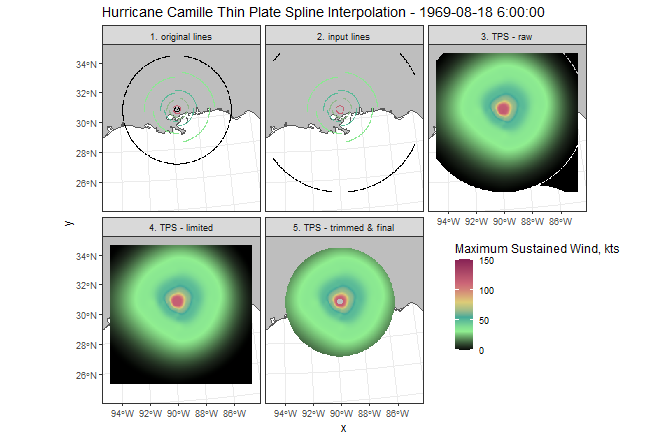
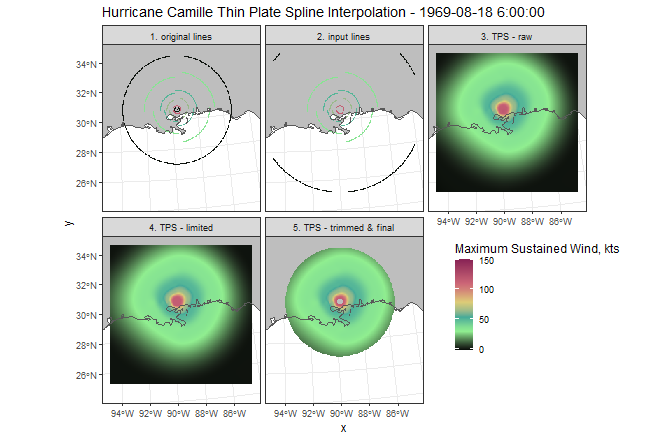
progress

diff --git a/README.md b/README.md
@@ -614,8 +614,8 @@ r = rast(ext=ex, resolution=5000,
 ###   Using the original ROCI and eye wall can create extreme and unnatural shifts in wind Velocity with the thin spline method
 ###   to avoid this, bump the 0 velocity line of the ROCI out a bit further
 ###   we will still zero out the original ROCI later, this is only for the thine spline interpolation
-line <- bind_rows(line1,
-                  line1%>%filter(quad=="ROCI")%>%st_cast("POLYGON")%>%st_buffer(.$dist_m_mean*.5) %>%
+line <- bind_rows(line2.2,
+                  line2.2%>%filter(quad=="ROCI")%>%st_cast("POLYGON")%>%st_buffer(.$dist_m_mean*.5) %>%
                       mutate(quad="ROCI2")%>%st_cast("LINESTRING"))
 r <- crop(r,line%>%filter(quad=="ROCI2"))
 ####  remove the eye and the outer storm limits 
@@ -649,12 +649,13 @@ plot(rast(p_v_list))
 plot(rnaturalearth::ne_countries(country=c("united states of america"),scale="medium")%>%st_transform(crs(r)),add=TRUE)
 
 ggplot(as.data.frame(rast(p_v_list),xy=TRUE)%>%tidyr::pivot_longer(cols=c(3:7),names_to="Layer"))+
-geom_raster(aes(x=x,y=y,fill=value),na.rm=TRUE)+
+geom_sf(data=rnaturalearth::ne_countries(country=c("united states of america"),scale="medium")%>%st_transform(crs(r)),fill="grey")+
+geom_raster(aes(x=x,y=y,fill=value))+
 facet_wrap(~Layer)+
 scale_fill_gradientn(
     colours = c("black","lightgreen","#44AA99","#DDCC77","#CC6677","#882255"),
     values = scales::rescale(c(64, 83, 96, 113,137)), # breakpoints in data space
-    limits = c(0, 150),
+    limits = c(-2, 150),
     na.value = "transparent",
     name="Maximum Sustained Wind, kts")+
 geom_sf(data=rnaturalearth::ne_countries(country=c("united states of america"),scale="medium")%>%st_transform(crs(r)),fill=NA)+
@@ -665,6 +666,79 @@ xlim(107650,1128130)+ylim(-1629130,-548305)
 
 ```
 ![](README_files/figure-gfm/TPSDemonstration.png)<!-- -->
+
+The above process is carried out for each of the original 3 hour time steps in which wind extent features were produced. However, remember that before doing this, one of a pair of two end points is shifted as described above such that it overlaps its companion endpoint. Thus,each pixel in the two endpoint rasters are then perfectly aligned. In the following steps, we then create empty rasters corresponding to each of the 3 min time steps between the two endpoints and we linearly interpolate their values.
+
+```r
+###  if rs1 and rs2 are the final rasters as produced in the previous step, each belonging to a pair of timestep end points.
+###  extend them so they have the same extents
+rs1 <- extend(rs1,rs2) ##  here rs1 is the TSP wind field for the time step 1969-08-18 6:00:00
+rs2 <- extend(rs2,rs1) ##  here rs2 is the TSP wind field for the time step 1969-08-18 9:00:00
+##  create an empty list for the 3 min time step rasters between the endpoints
+vlist <- list()
+##  set the first layer as the first end point raster
+##  then create new empty rasters for each of the 3 min time steps in between 
+vlist[[1]] <- rs1
+for (i in 2:(length(dates)-1)){
+    vlist[[i]] <- setValues(rs1,NA)
+}
+##  now add in the end raster with known values from the second line segment
+vlist[[length(vlist)+1]] <- rs2
+###  load them to be processed as a raster
+vs <- rast(vlist)
+###  inerpolate (linearly) the missing values between the two end "points"
+##  we assume here that velocity and power transitions are linear from one time point to the next
+##  in this case, its a time difference of usually three hours
+vs <- approximate(vs)
+###  these rasters now hold the interpolated velocity and power values for times between the two end points
+##  but their geographical information is shifted and identical
+##  they now need to be moved to their respective geographic locations
+###  create a new empty list to hold the shifted rasters
+Vlist <- list()
+##  Again, set the first raster to that of the the first set of line segments, which has the correct geographic representation
+##  the second segment will not be included because it is included on the next iteration as the first segment
+##  it was only used here as an endpoint for the approximation
+Vlist[[1]] <- vs[[1]]
+##  for the remaining rasters, shift them in space so they are centered on the points corresponding to their
+##  respective timestamps
+for (i in 2:(length(dates)-1)){
+  d1 <- dates[1]
+  d2 <- dates[i]
+  ###  calculate the dx and dy between the two center points
+  coord_dif <- st_coordinates(trck_points[trck_points$ISO_TIME==d2,])-
+    st_coordinates(trck_points[trck_points$ISO_TIME==d1,])
+  ##  shift the rasters accordingly
+  v <- shift(vs[[i]],coord_dif[1], coord_dif[2])
+  ## add the shifted rasters to the list
+  Vlist[[length(Vlist)+1]] <- v
+}
+
+###  set the geometry back to the original rasters, to ensure all are equal before further processing
+Vlist <- lapply(Vlist, function(x) resample(x,rs1))
+a <- allNA(rast(Vlist))
+Vlist <- ifel(is.na(rast(Vlist)), ifel(a, NA, 0), rast(Vlist))
+##  This is now a list of 60 rasters, each representing a 3 min interval between the two endpoints, which are 3 hours apart
+##  For wind speeds, we are mostly interested in the maximum wind that ocurred over an area for the duration of the storm
+##  so, we take the maximum pixel value throughout the 60 layers
+rV <- app(Vlist,fun=max,na.rm=T)
+ggplot(as.data.frame(rV,xy=TRUE))+
+geom_sf(data=rnaturalearth::ne_countries(country=c("united states of america"),scale="medium")%>%st_transform(crs(r)),fill="grey")+
+geom_raster(aes(x=x,y=y,fill=max))+
+scale_fill_gradientn(
+    colours = c("black","lightgreen","#44AA99","#DDCC77","#CC6677","#882255"),
+    values = scales::rescale(c(64, 83, 96, 113,137)), # breakpoints in data space
+    limits = c(-2, 150),
+    na.value = "transparent",
+    name="Maximum Sustained Wind, kts")+
+geom_sf(data=rnaturalearth::ne_countries(country=c("united states of america"),scale="medium")%>%st_transform(crs(r)),fill=NA)+
+theme_bw()+
+ggtitle("Hurricane Camille Maximum Winds - 1969-08-18 6:00:00 to 9:00:00")+
+xlim(107650,1128130)+ylim(-1629130,-548305)
+
+```
+![](README_files/figure-gfm/Camille-twosteps.png)<!-- -->
+
+
 
 The above results in a series of raster images, as well as a dataframe that compares the resulting raster winds with values from the original lines (as a quality check). The rasters are wrapped, because rasters are kept on disc, not in memory, which does not allow for parallel processing. Wrapping them gets around this. The rasters represent the wind, power, and wind direction at each time stamp that was passed to the function as well as the 3 min interpolated time steps. These are raster stacks, which each layer in each stack representing a different time stamp. 
 
